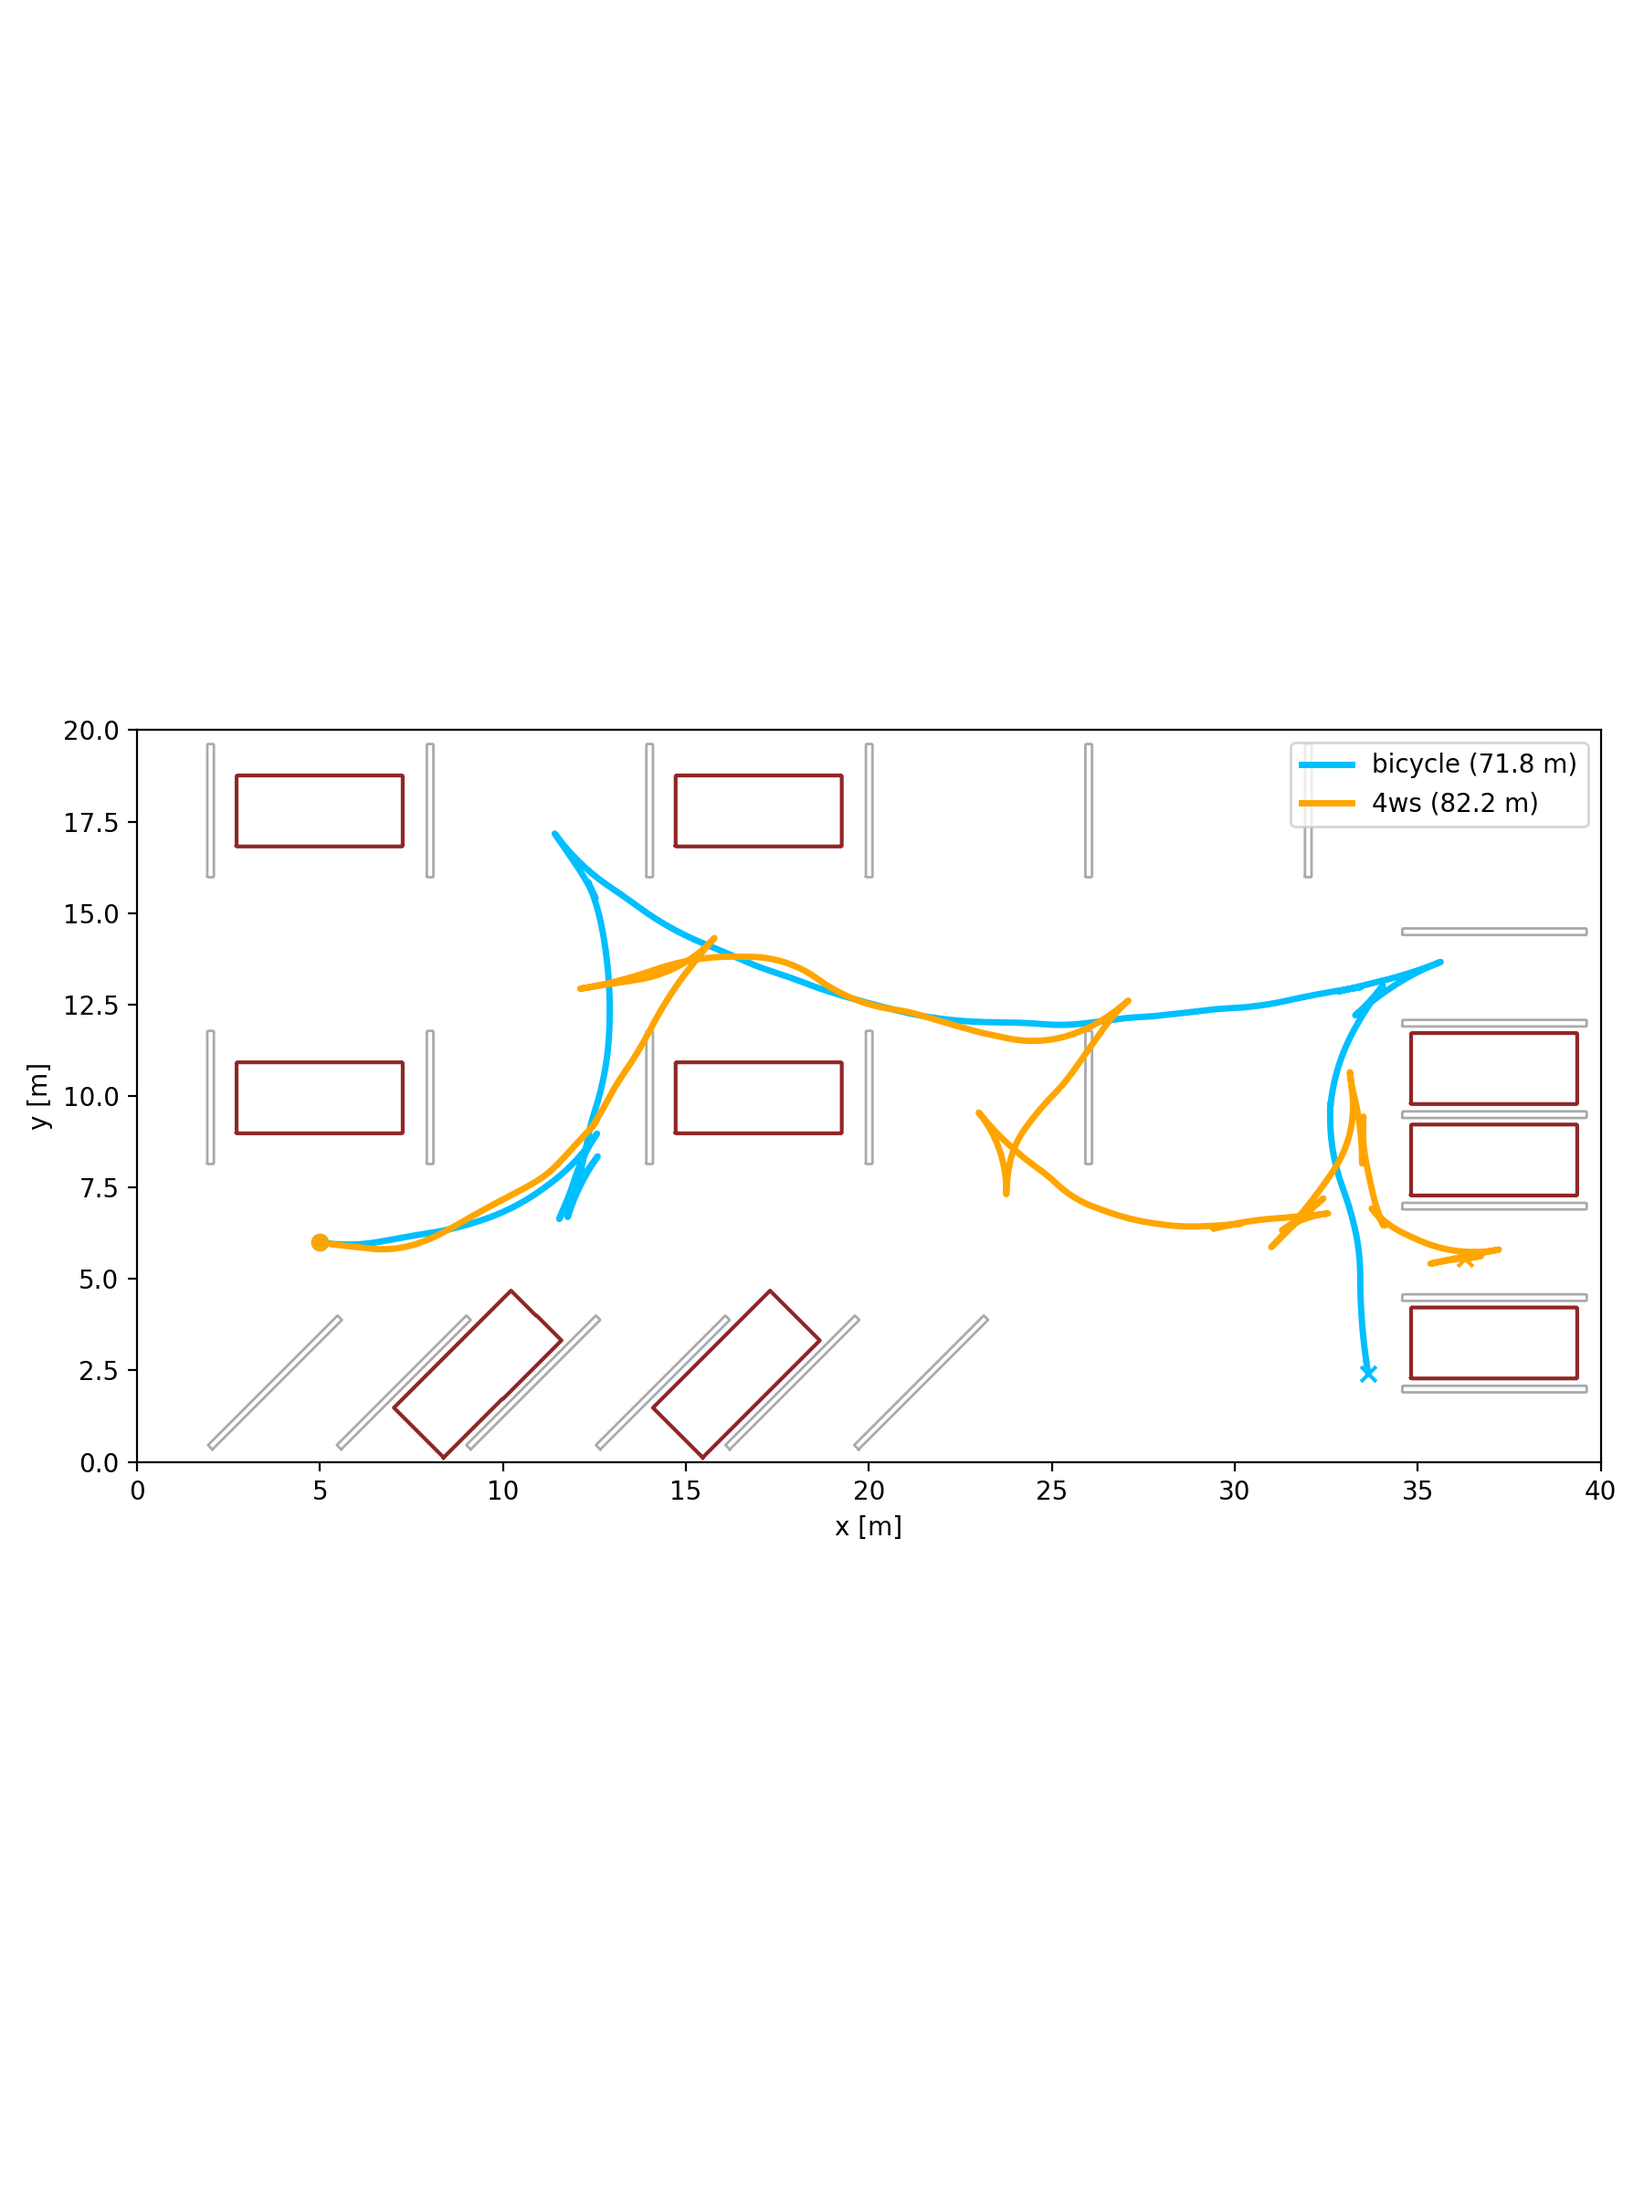
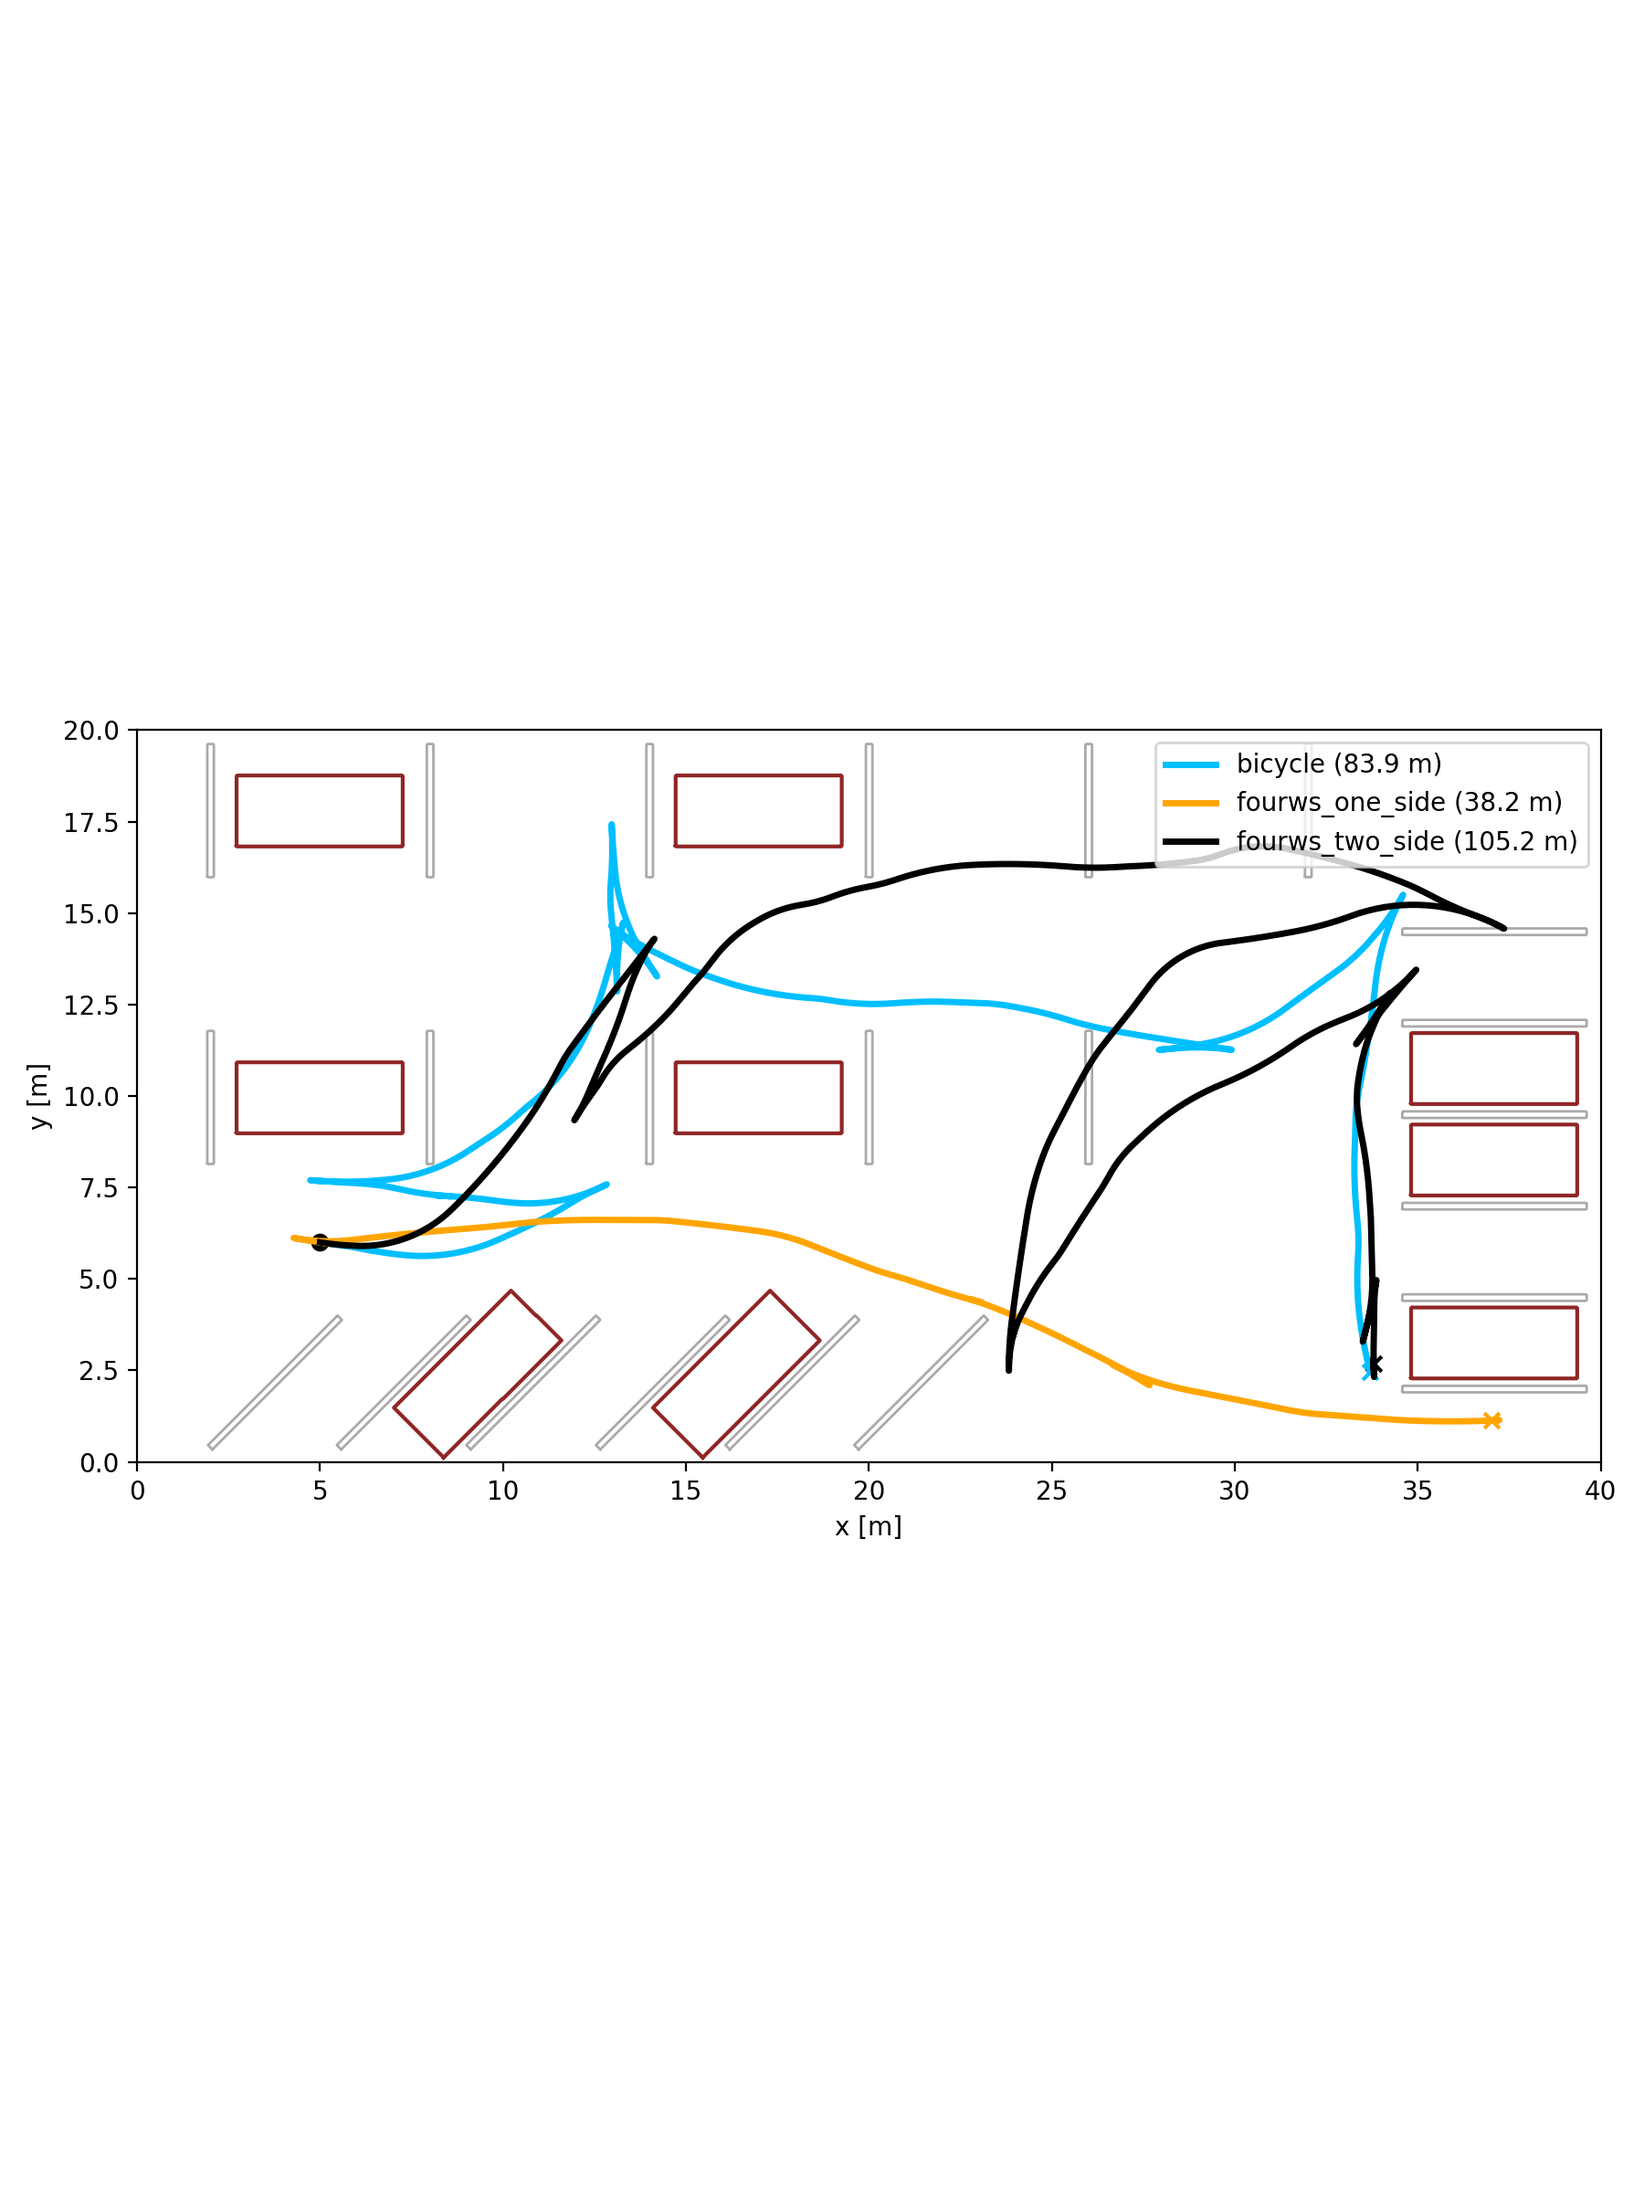
changed the constraint for the velocity, 0-1)

Changed region(s): [[0.1867, 0.3438, 0.9644, 0.6562], [0.8711, 0.5625, 0.9022, 0.5938]]

diff --git a/lib/OMPL.py b/lib/OMPL.py
@@ -92,7 +92,7 @@ class OMPL:
 
         cb = ob.RealVectorBounds(dim)
         steering_angle = 0.523; velocity = 1.5
-        cb.setLow(0, -velocity)
+        cb.setLow(0, 0)
         cb.setHigh(0, velocity)             # ±1.5 m/s
         cb.setLow(1, -steering_angle)
         cb.setHigh(1, steering_angle)           # ±30° steering
